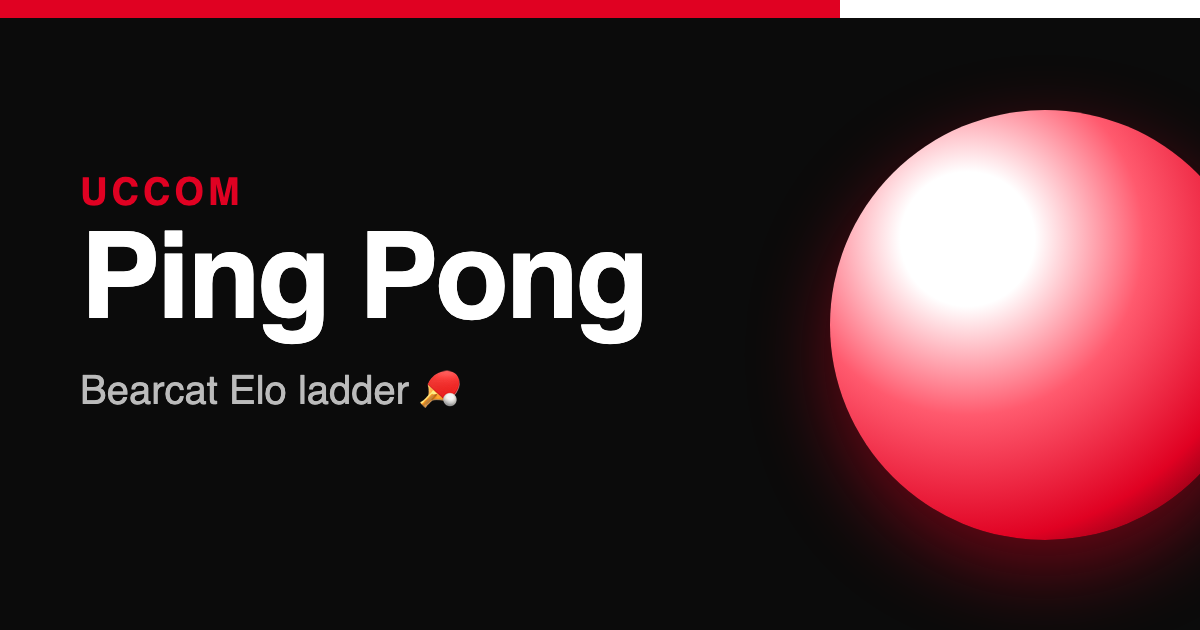
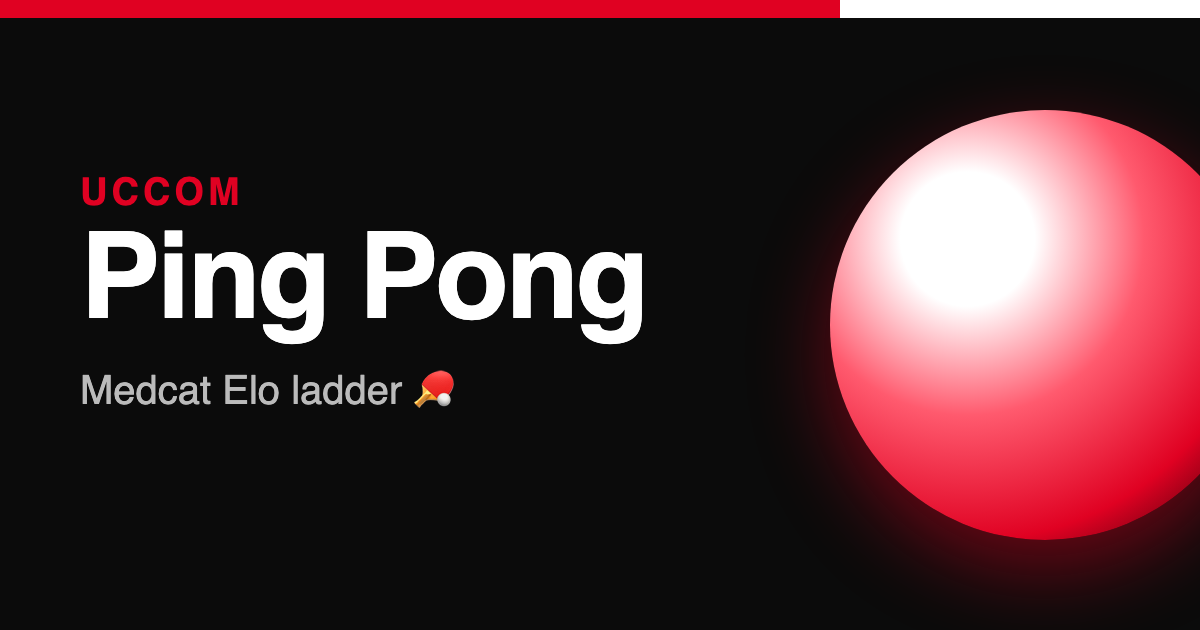
ogle/pong: Medcat Elo ladder

Changed region(s): [[0.0617, 0.573, 0.4008, 0.6635]]

diff --git a/ogle/pong/index.html b/ogle/pong/index.html
@@ -5,9 +5,9 @@
 <meta name="viewport" content="width=device-width, initial-scale=1.0">
 <meta name="robots" content="noindex, nofollow, noimageindex">
 <title>UCCOM Ping Pong</title>
-<meta name="description" content="Bearcat Elo ladder — log games, climb the leaderboard.">
+<meta name="description" content="Medcat Elo ladder — log games, climb the leaderboard.">
 <meta property="og:title" content="UCCOM Ping Pong">
-<meta property="og:description" content="Bearcat Elo ladder — log games, climb the leaderboard.">
+<meta property="og:description" content="Medcat Elo ladder — log games, climb the leaderboard.">
 <meta property="og:type" content="website">
 <meta property="og:url" content="https://cjre.pl/ogle/pong/">
 <meta property="og:image" content="https://cjre.pl/ogle/pong/og.png">
@@ -93,7 +93,7 @@
 <body>
 <div class="wrap">
 <a class="back" href="/ogle/">&larr; back</a>
-<header><div class="ball"></div><div><h1>UCCOM Ping Pong</h1><p class="sub">Bearcat Elo ladder &middot; everyone starts at 1000</p></div></header>
+<header><div class="ball"></div><div><h1>UCCOM Ping Pong</h1><p class="sub">Medcat Elo ladder &middot; everyone starts at 1000</p></div></header>
 
 <section class="card">
 <h2>Chart a game</h2>
